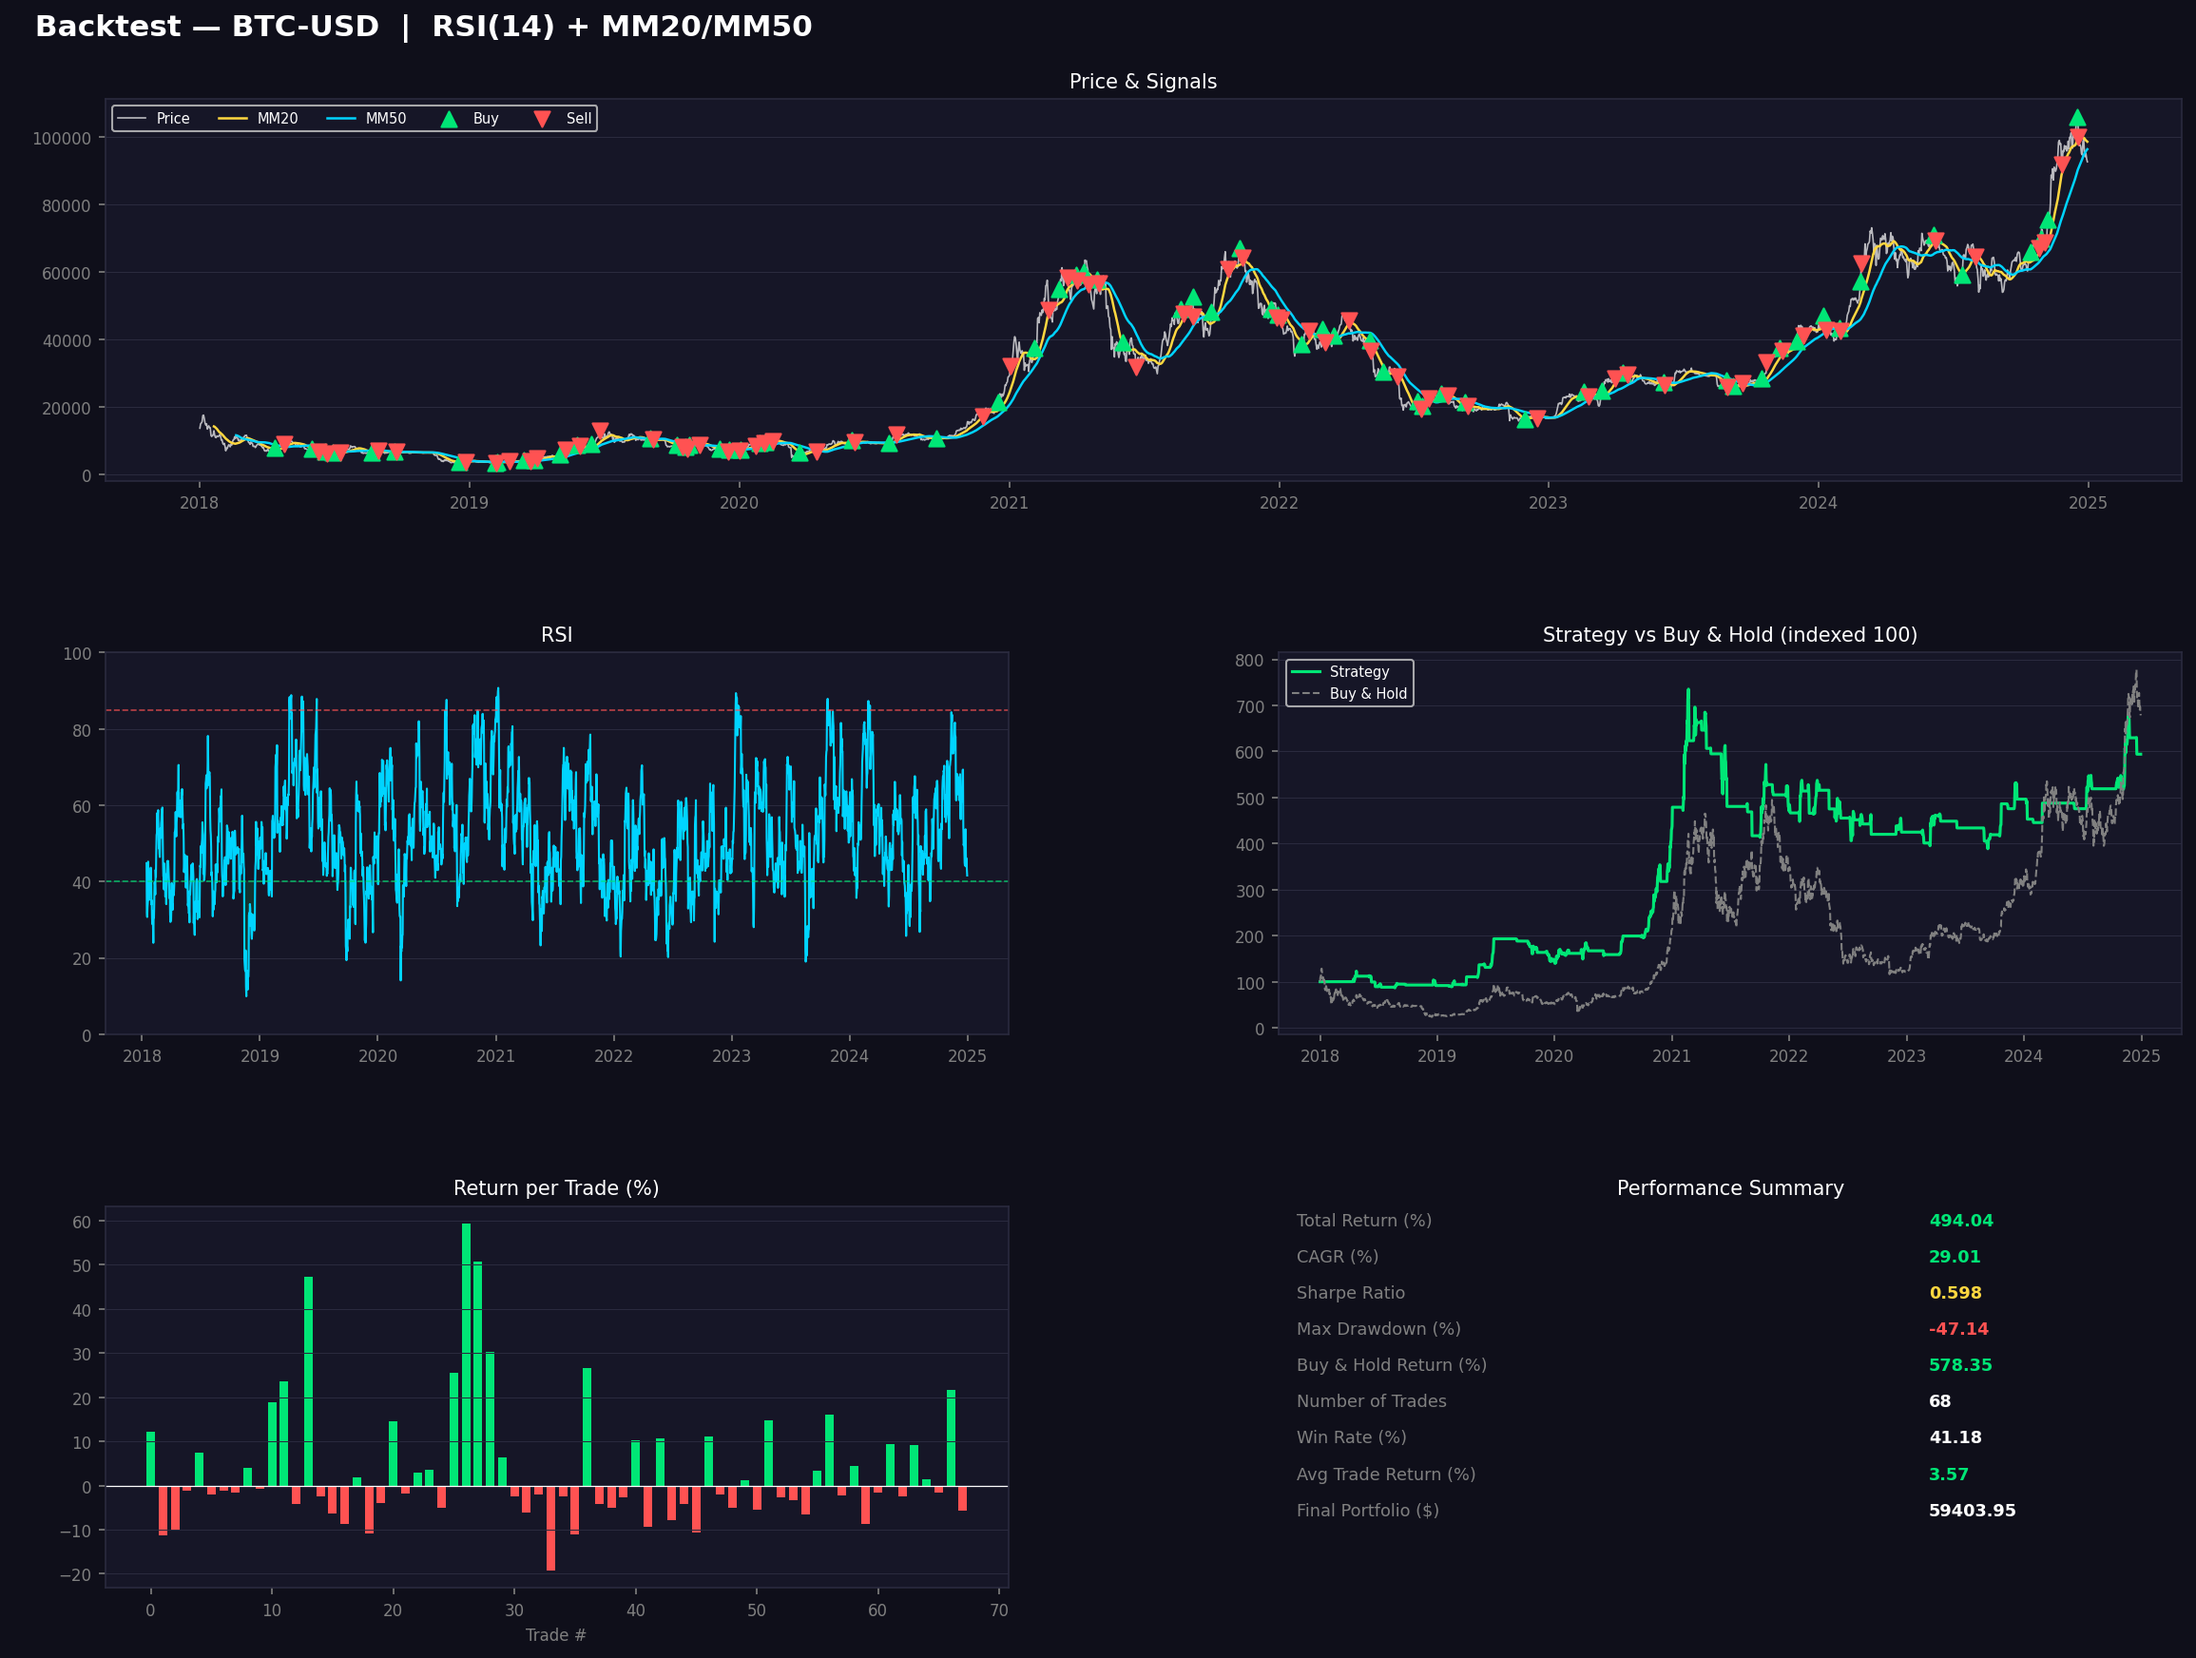
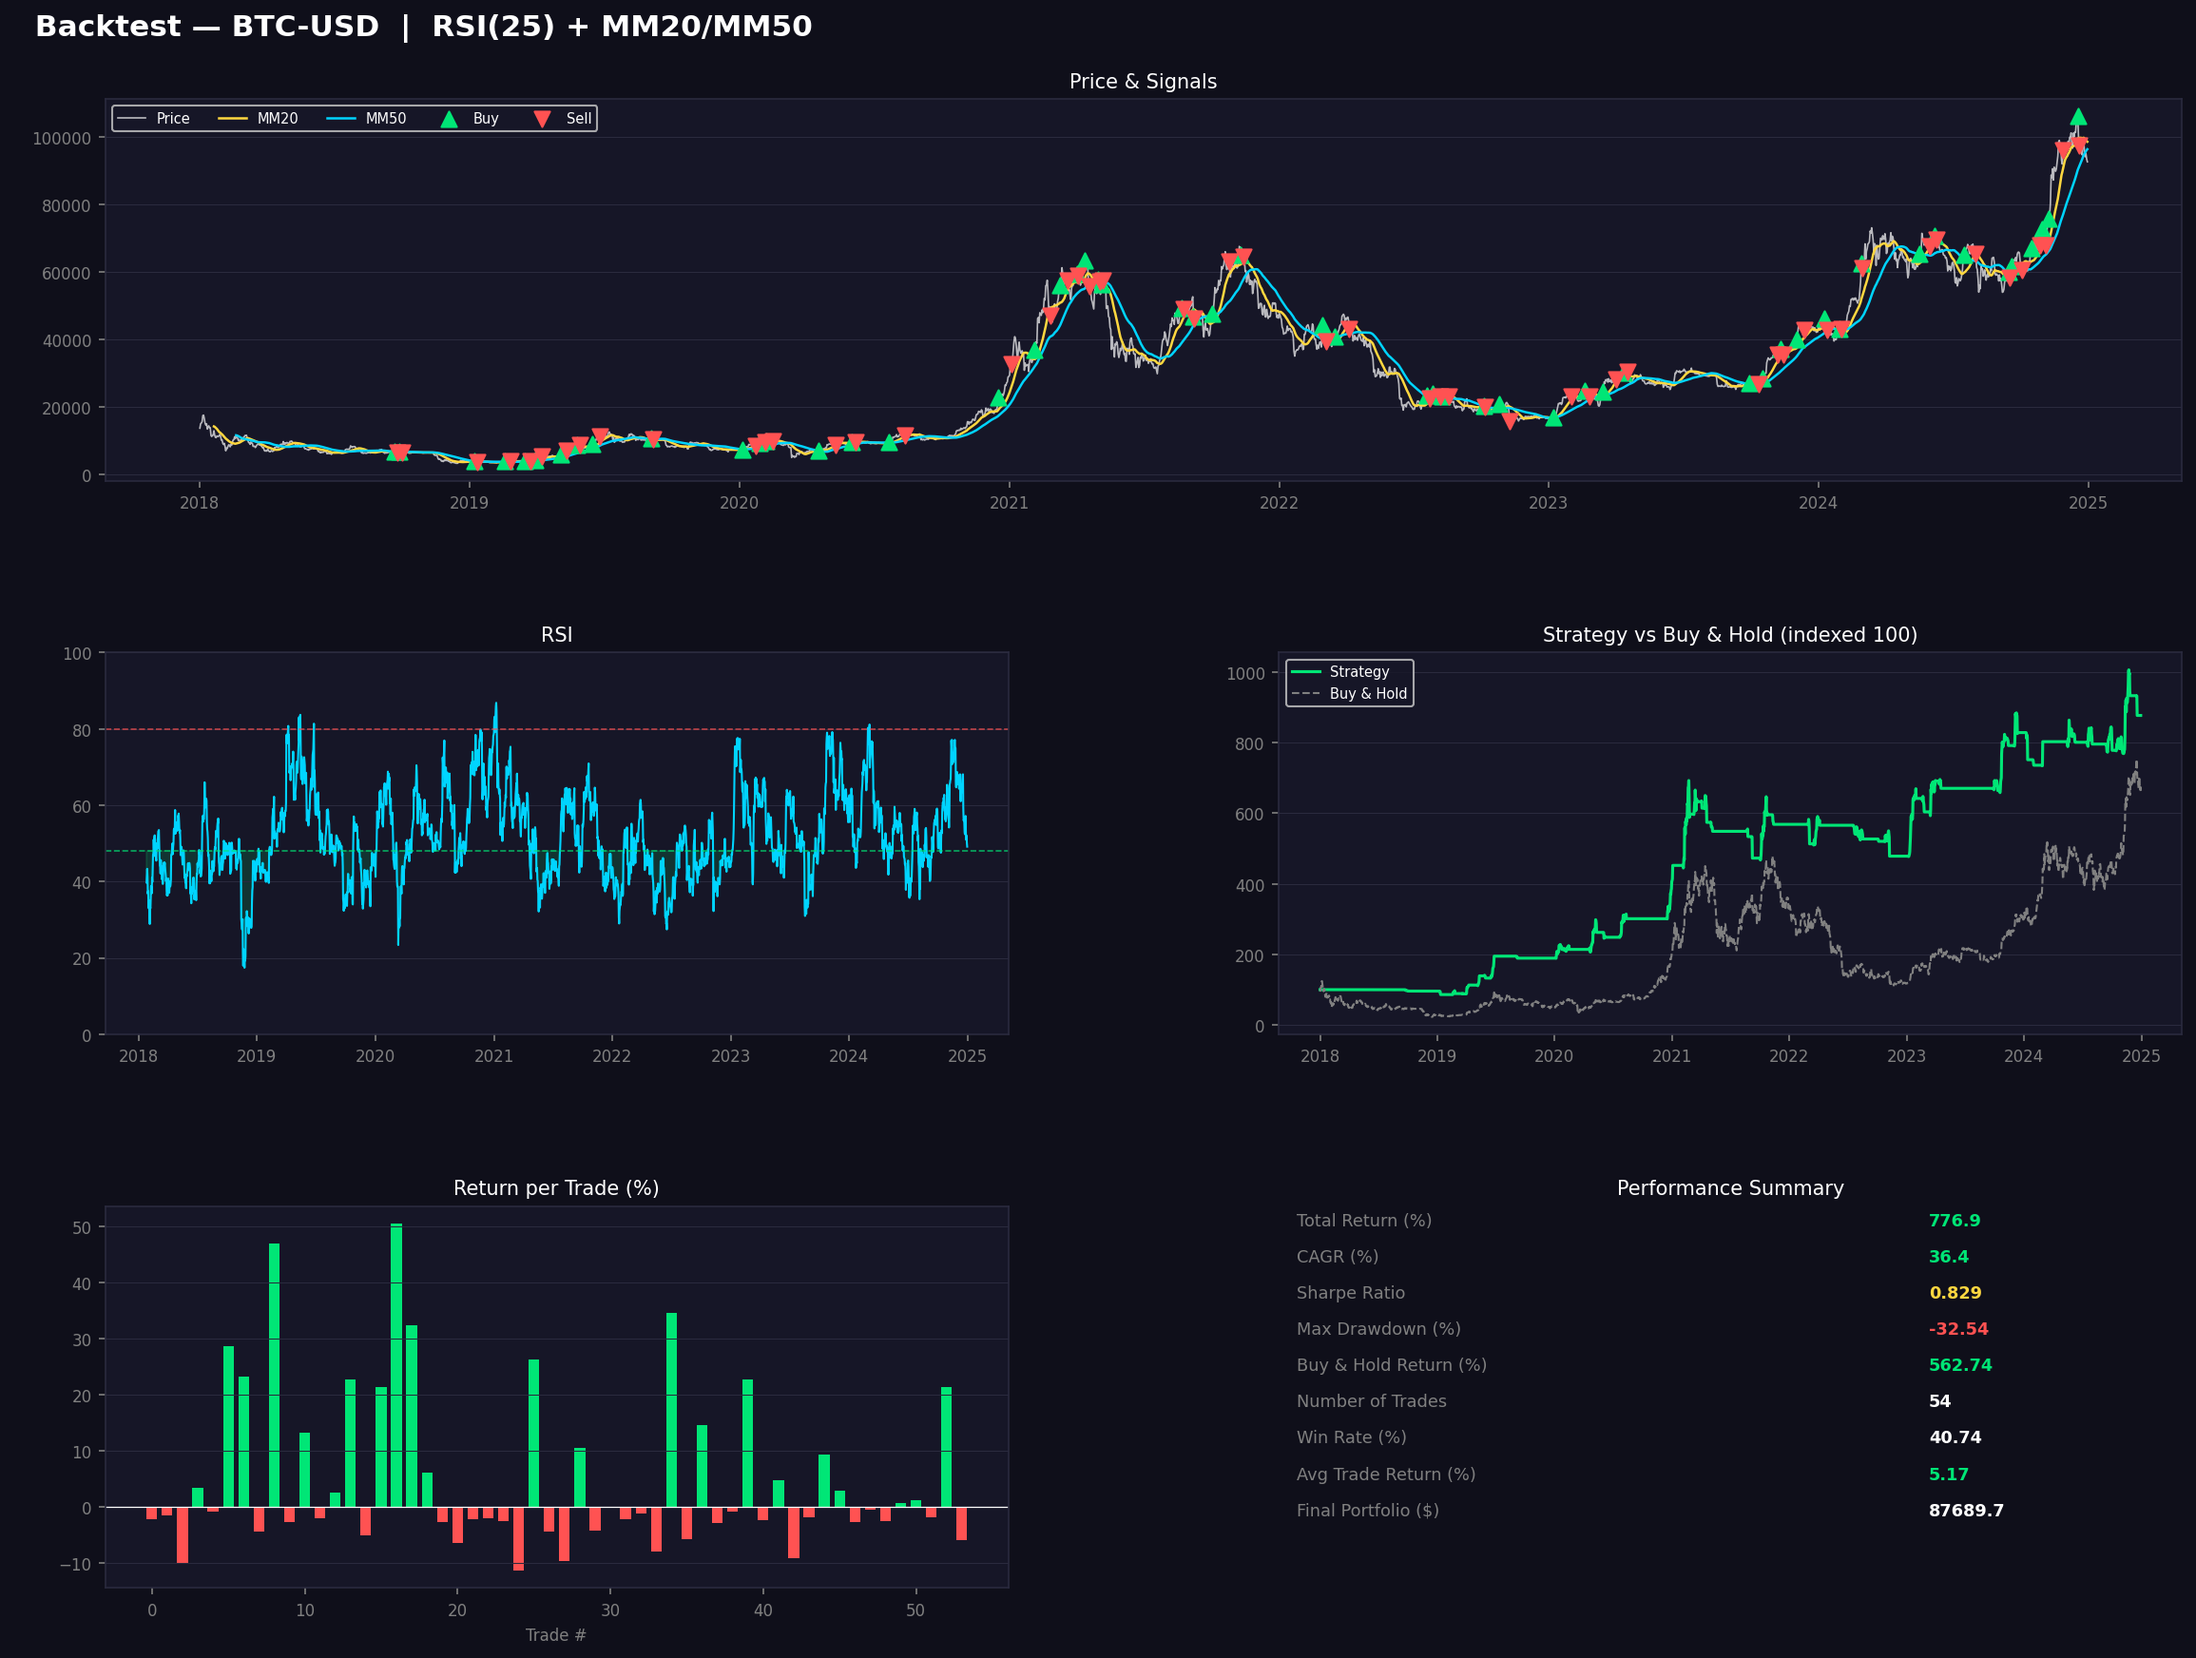
fix: look-ahead bias

diff --git a/strategy.py b/strategy.py
@@ -22,20 +22,20 @@ CONFIG = {
 
     "initial_cash":  10_000,
 
-    "rsi_period":    14,
-    "rsi_oversold":  40,
-    "rsi_overbought": 85,
+    "rsi_period":     25,
+    "rsi_oversold":   48,
+    "rsi_overbought": 80,
 
     "ma_fast":       20,
-    "ma_slow":       50,
-
-    
-
+    "ma_slow":        50,
 
     "position_size": 1.0,
 
-    "atr_multiplier": 2.0,    
-    "stop_loss_pct":  0.08,
+    "atr_period":       14,      
+    "atr_multiplier": 3.0,
+    "fee":              0.001,
+
+    "slippage": 0.001,
     
 }
 
@@ -69,7 +69,7 @@ def add_indicators(df: pd.DataFrame, cfg: dict) -> pd.DataFrame:
         (df["High"] - df["Close"].shift(1)).abs(),
         (df["Low"]  - df["Close"].shift(1)).abs()
     ], axis=1).max(axis=1)
-    df["ATR"] = df["TR"].rolling(14).mean()
+    df["ATR"] = df["TR"].rolling(cfg["atr_period"]).mean()
 
     return df
 
@@ -90,7 +90,7 @@ def generate_signals(df: pd.DataFrame, cfg: dict) -> pd.DataFrame:
 
 
     buy_signal = cond_macd & cond_ma
-    buy_signal2 = cond_rsi & (df["MACD_hist"] > 0)
+    buy_signal2 = cond_rsi & (df["MACD_hist"] > 0) & cond_ma
 
     df.loc[buy_signal | buy_signal2, "signal"] = 1
 
@@ -105,83 +105,60 @@ def generate_signals(df: pd.DataFrame, cfg: dict) -> pd.DataFrame:
     return df
 
 def run_backtest(df: pd.DataFrame, cfg: dict) -> pd.DataFrame:
-    cash       = cfg["initial_cash"]
-    shares     = 0
-    position   = 0          
-    trades     = []
-    portfolio  = []
-    entry_price = 0
+    cash          = cfg["initial_cash"]
+    shares        = 0
+    position      = 0
+    trades        = []
+    portfolio     = []
+    entry_price   = 0
     trailing_stop = 0
     fee           = cfg.get("fee", 0.001)
 
     for date, row in df.iterrows():
-        price = row["Close"]
+        price = row["Open"]
         sig   = row["signal"]
         atr   = row["ATR"] if not np.isnan(row["ATR"]) else price * 0.05
 
         if sig == 1 and position == 0 and not np.isnan(row["MA_slow"]):
-            shares      = (cash * cfg["position_size"]) / price
-            cash       -= shares * price
-            position    = 1
-            entry_price = price
-            trailing_stop = price - cfg["atr_multiplier"] * atr
-            trades.append({"date": date, "type": "BUY", "price": price, "shares": shares})
-
-        elif sig == -1 and position == 1:
-            cash    += shares * price
-            pnl      = (price - entry_price) * shares
-            trades.append({"date": date, "type": "SELL", "price": price,
-                           "shares": shares, "pnl": pnl,
-                           "return_%": (price / entry_price - 1) * 100})
-            shares   = 0
-            position = 0
+            exec_price    = price * (1 + cfg.get("slippage", 0))
+            shares        = (cash * cfg["position_size"]) / exec_price * (1 - fee)
+            cash         -= shares * exec_price / (1 - fee)
+            position      = 1
+            entry_price   = exec_price
+            trailing_stop = exec_price - cfg["atr_multiplier"] * atr
+            trades.append({"date": date, "type": "BUY", "price": exec_price, "shares": shares})
 
         elif position == 1:
-            # Met à jour le trailing stop si le prix monte
             new_stop      = price - cfg["atr_multiplier"] * atr
             trailing_stop = max(trailing_stop, new_stop)
 
-            # — STOP LOSS DÉCLENCHÉ —
             if price <= trailing_stop:
-                cash += shares * price * (1 - fee)
-                pnl   = (price - entry_price) * shares
-                trades.append({"date": date, "type": "SELL",
-                               "price": price, "shares": shares,
-                               "pnl": pnl,
-                               "return_%": (price / entry_price - 1) * 100,
-                               "exit": "stop_loss"})
+                exec_price = price * (1 - cfg.get("slippage", 0))
+                cash += shares * exec_price * (1 - fee)
+                pnl   = (exec_price - entry_price) * shares
+                trades.append({"date": date, "type": "SELL","price": exec_price, "shares": shares,"pnl": pnl,"return_%": (exec_price / entry_price - 1) * 100,"exit": "stop_loss"})
                 shares        = 0
                 position      = 0
                 trailing_stop = 0
 
-            # — SIGNAL DE VENTE NORMAL —
             elif sig == -1:
-                cash += shares * price * (1 - fee)
-                pnl   = (price - entry_price) * shares
-                trades.append({"date": date, "type": "SELL",
-                               "price": price, "shares": shares,
-                               "pnl": pnl,
-                               "return_%": (price / entry_price - 1) * 100,
-                               "exit": "signal"})
+                exec_price = price * (1 - cfg.get("slippage", 0))
+                cash += shares * exec_price * (1 - fee)
+                pnl   = (exec_price - entry_price) * shares
+                trades.append({"date": date, "type": "SELL","price": exec_price, "shares": shares,"pnl": pnl,"return_%": (exec_price / entry_price - 1) * 100,"exit": "signal"})
                 shares        = 0
                 position      = 0
                 trailing_stop = 0
 
-        # Valorisation quotidienne
         portfolio_value = cash + shares * price
-        portfolio.append({"date": date, "value": portfolio_value,
-                          "price": price, "position": position})
+        portfolio.append({"date": date, "value": portfolio_value,"price": price, "position": position})
 
-    # Force-close à la fin
     if position == 1:
-        price = df["Close"].iloc[-1]
-        cash += shares * price * (1 - fee)
-        pnl   = (price - entry_price) * shares
-        trades.append({"date": df.index[-1], "type": "SELL",
-                       "price": price, "shares": shares,
-                       "pnl": pnl,
-                       "return_%": (price / entry_price - 1) * 100,
-                       "exit": "force_close"})
+        price = df["Open"].iloc[-1]
+        exec_price = price * (1 - cfg.get("slippage", 0))
+        cash += shares * exec_price * (1 - fee)
+        pnl   = (exec_price - entry_price) * shares
+        trades.append({"date": df.index[-1], "type": "SELL","price": exec_price, "shares": shares,"pnl": pnl,"return_%": (exec_price / entry_price - 1) * 100,"exit": "force_close"})
 
     portfolio_df = pd.DataFrame(portfolio).set_index("date")
     trades_df    = pd.DataFrame(trades)
@@ -398,6 +375,8 @@ def main():
 
     df = add_indicators(raw, cfg)
     df = generate_signals(df, cfg)
+    df["signal"] = df["signal"].shift(1)
+    
 
     print("🔄 Running backtest...")
     portfolio_df, trades_df = run_backtest(df, cfg)
@@ -415,9 +394,9 @@ def main():
     plot_results(df, portfolio_df, trades_df, metrics, cfg)
 
     print("\n✅ Done!")
-
-    print("\n🔍 Lancement du Grid Search sur 2018-2022...")
-    train_raw = yf.download(cfg["ticker"], start="2018-01-01", end="2022-12-31",
+    '''
+    print("\n🔍 Lancement du Grid Search sur 2018-2024...")
+    train_raw = yf.download(cfg["ticker"], start="2018-01-01", end="2024-12-31",
                         auto_adjust=True, progress=False)
     if isinstance(train_raw.columns, pd.MultiIndex):
         train_raw.columns = train_raw.columns.get_level_values(0)
@@ -425,9 +404,23 @@ def main():
     best_params = grid_search(train_raw)
 
     if best_params:
-        print(f"Meilleurs paramètres trouvés : {best_params}")
+        print(f"\n✅ Meilleurs paramètres : {best_params}")
         cfg.update(best_params)
 
+        print("\n🚀 Relance avec les meilleurs paramètres...")
+        df = add_indicators(raw, cfg)
+        df = generate_signals(df, cfg)
+        portfolio_df, trades_df = run_backtest(df, cfg)
+        metrics = compute_metrics(portfolio_df, trades_df, cfg)
+
+        print("\n" + "─" * 42)
+        print(f"  OPTIMISED RESULTS — {cfg['ticker']}")
+        print("─" * 42)
+        for k, v in metrics.items():
+            print(f"  {k:<28} {v}")
+        print("─" * 42)
+        plot_results(df, portfolio_df, trades_df, metrics, cfg)
+    '''
 
 if __name__ == "__main__":
     main()
